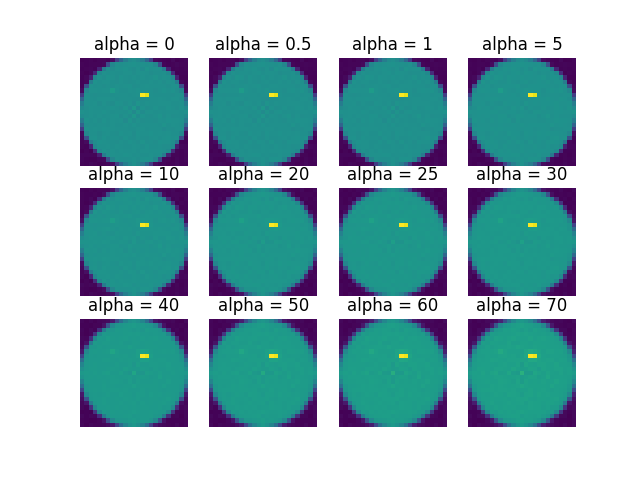
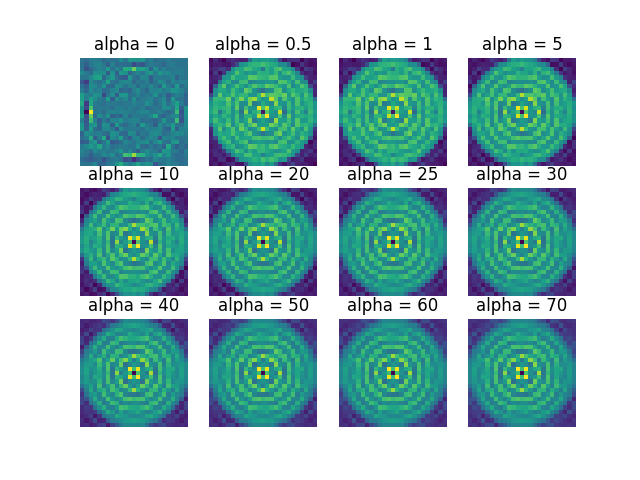
Too many pictures

diff --git a/code/number_of_rays_angles_and_resolution.py b/code/number_of_rays_angles_and_resolution.py
@@ -21,36 +21,70 @@ def add_noise_float(b, mean_noise, std_noise):
 
 test_image = np.load('testImage.npy')
 
-down_sampling_factors = [150, 200]
+down_sampling_factors = [200, 250, 300]
 for d in down_sampling_factors:
     resized_image = ski.measure.block_reduce(test_image, block_size=d, func=np.mean)
     N, _N = resized_image.shape
     print(f"N: {N}")
 
     # What angels and how many rays pr angle
-    theta = np.matrix(np.arange(1, 180))
-    p = 48
+    theta = np.matrix(np.arange(1, 180, 5))
+    p = 16
 
     A, _, _, _ = paralleltomo(N, theta, p, int(np.sqrt(2) * N))
-    cond_A = np.linalg.cond(A)
-    print(f"cond(A): {cond_A}")
+    cond_A_1 = np.linalg.cond(A)
+    print(f"cond(A): {cond_A_1}")
 
     # Image to vector
     x = resized_image.flatten(order="F")
     b = A @ x
 
-    b_noise = add_noise_float(b, 0, 0.0001)
+    b_noise = add_noise_float(b, 0, 0.00001)
 
     # Alpha values for ridge and lasso
-    alphas = [0, 1/2, 1, 5, 
-            10, 20, 25, 30,
-            40, 50, 60, 70]
+    alphas = [0, 1, 20]
 
     recoved_images = []
-    plt.figure(f"Ridge, down scaling factor: {d} (N = {N}), recovered")
+    plt.figure(f"N: {N}")
+    # plt.figure(f"Ridge, down scaling factor: {d} (N = {N}), recovered")
     for idx, a in enumerate(alphas):
-        plt.subplot(3, 4, idx+1)
-        plt.title(f"alpha = {a}")
+        plt.subplot(3, 3, idx+1)
+        plt.title(f"alpha: {a}")
+
+        model_ridge = sklin.Ridge(alpha=a, fit_intercept=False)
+        model_ridge.fit(A, b_noise)
+        im_recov_ridge = np.reshape(model_ridge.coef_, (N,N), order = "F")
+        # recoved_images.append((im_recov_ridge, a))
+
+        # kmeans_image, _ = validation.kmean_clust(im_recov_ridge)
+
+        # Plotting the recovered image
+        plt.axis("off")
+        plt.imshow(im_recov_ridge)
+    
+    # plt.savefig(f".././images/ridge-N-{N}-recovered.png")
+
+
+    # What angels and how many rays pr angle
+    theta = np.matrix(np.arange(1, 180, 1))
+    p = 48
+
+    A, _, _, _ = paralleltomo(N, theta, p, int(np.sqrt(2) * N))
+    cond_A_2 = np.linalg.cond(A)
+    print(f"cond(A): {cond_A_2}")
+
+    # Image to vector
+    x = resized_image.flatten(order="F")
+    b = A @ x
+
+    b_noise = add_noise_float(b, 0, 0.00001)
+
+    # Alpha values for ridge and lasso
+    alphas = [0, 1, 20]
+
+    for idx, a in enumerate(alphas):
+        plt.subplot(3, 3, idx+4)
+        plt.title(f"alpha: {a}")
 
         model_ridge = sklin.Ridge(alpha=a, fit_intercept=False)
         model_ridge.fit(A, b_noise)
@@ -62,18 +96,17 @@ for d in down_sampling_factors:
         # Plotting the recovered image
         plt.axis("off")
         plt.imshow(im_recov_ridge)
-    
-    plt.savefig(f".././images/ridge-N-{N}-recovered.png")
 
-    plt.figure(f"Ridge, down scaling factor: {d} (N = {N}), kmean-cluster")
+
+    # plt.figure(f"Ridge, down scaling factor: {d} (N = {N}), kmean-cluster")
     for idx, (im_recov_ridge, a) in enumerate(recoved_images):
-        plt.subplot(3, 4, idx+1)
+        plt.subplot(3, 3, idx+7)
         plt.title(f"alpha = {a}")
+        # Plots the labels i.e. a computer can predict it e.g. 0,1,2,3 for 4 clusters
         kmeans_image, _ = validation.kmean_clust(im_recov_ridge)
-
         plt.axis("off")
         plt.imshow(kmeans_image)
-
-    plt.savefig(f".././images/ridge-N-{N}-kmean-cluster.png")
+        
+    plt.savefig(f".././images/total-picture-{N}-condA1-{cond_A_1}-condA2-{cond_A_2}.png")
 
 plt.show()

diff --git a/code/validation.py b/code/validation.py
@@ -25,7 +25,10 @@ def return_circle(im):
     n,m = im.shape
     return_im = np.zeros((n,m))
     c = n//2
-    radius = c - 5
+    if (n==20):
+        radius = c-1.25
+    else:
+        radius = c - 1
     for i in range(n):
         for j in range(m):
             if ((i - c)**2 + (j - c)**2) < radius**2:   #Area to evaluate
